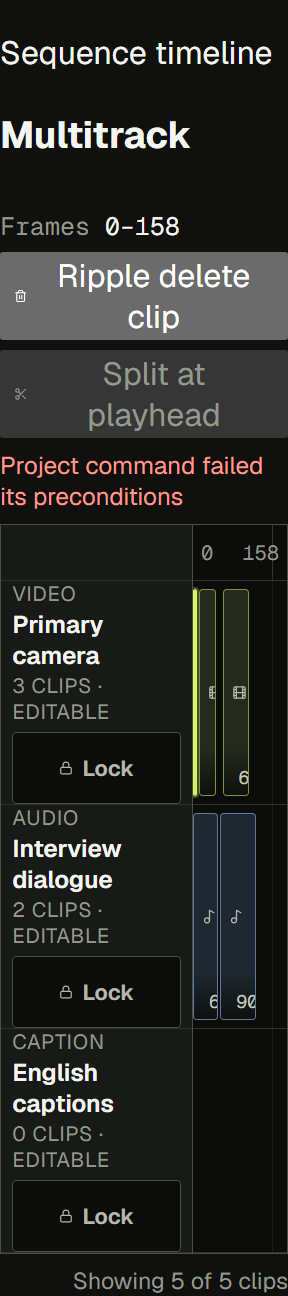
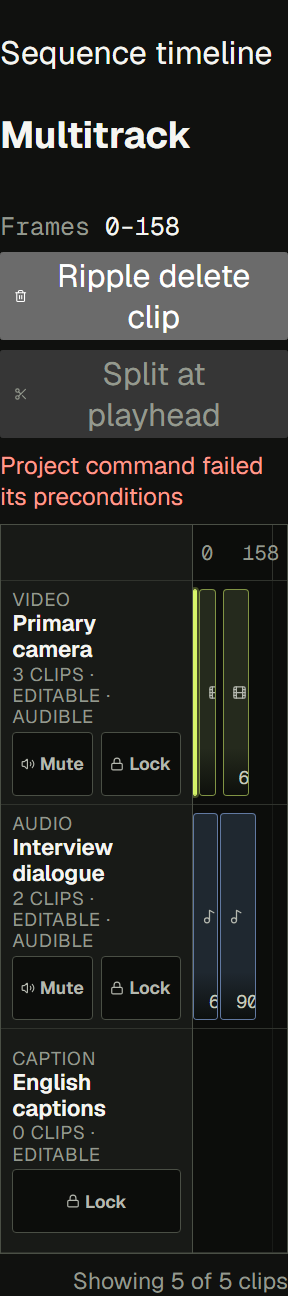
Add accessible multitrack mute controls

Changed region(s): [[0.0312, 0.4321, 0.5938, 0.9568]]

diff --git a/apps/desktop/src/video/MultitrackTimeline.tsx b/apps/desktop/src/video/MultitrackTimeline.tsx
@@ -9,7 +9,7 @@ import {
 } from "@supa-video/contracts";
 import { deriveActiveTimelineRange, projectVisibleTimeline } from "@supa-video/project";
 import type { PreparedVideoAsset } from "@supa-video/media";
-import { Film, Lock, LockOpen, Music2, Scissors, Trash2 } from "lucide-react";
+import { Film, Lock, LockOpen, Music2, Scissors, Trash2, Volume2, VolumeX } from "lucide-react";
 import {
   useCallback,
   useEffect,
@@ -39,6 +39,7 @@ interface MultitrackTimelineProps {
   readonly editError: Error | null;
   readonly onSelectClip: (clipId: string) => void;
   readonly onSetTrackLocked: (trackId: string, locked: boolean) => void;
+  readonly onSetTrackMuted: (trackId: string, muted: boolean) => void;
   readonly onSplitClip: (clipId: string, sourceFrame: number) => void;
   readonly onRippleDeleteClip: (clipId: string) => void;
   readonly onMoveClip: (clipId: string, timelineStartFrame: number) => void;
@@ -169,6 +170,7 @@ export function MultitrackTimeline({
   editError,
   onSelectClip,
   onSetTrackLocked,
+  onSetTrackMuted,
   onSplitClip,
   onRippleDeleteClip,
   onMoveClip,
@@ -477,28 +479,53 @@ export function MultitrackTimeline({
           {timeline.tracks.map((track) => (
             <div
               className={`multitrack-visible-label${track.locked ? " is-locked" : ""}`}
+              data-track-muted={track.canMute ? track.muted : undefined}
               key={track.trackId}
             >
               <span>{track.kind}</span>
               <strong>{track.name}</strong>
               <small>
                 {track.totalClipCount} clips · {track.locked ? "Locked" : "Editable"}
+                {track.canMute ? ` · ${track.muted ? "Muted" : "Audible"}` : ""}
               </small>
-              <button
-                type="button"
-                className="multitrack-lock-toggle"
-                aria-label={`${track.name} track lock`}
-                aria-pressed={track.locked}
-                disabled={editPending}
-                onClick={() => onSetTrackLocked(track.trackId, !track.locked)}
+              <div
+                className="multitrack-track-controls"
+                role="group"
+                aria-label={`${track.name} track controls`}
               >
-                {track.locked ? (
-                  <LockOpen size={14} aria-hidden="true" />
-                ) : (
-                  <Lock size={14} aria-hidden="true" />
-                )}
-                <span>{track.locked ? "Unlock" : "Lock"}</span>
-              </button>
+                {track.canMute ? (
+                  <button
+                    type="button"
+                    className="multitrack-mute-toggle"
+                    aria-label={`${track.name} track ${track.muted ? "unmute" : "mute"}`}
+                    aria-pressed={track.muted}
+                    disabled={editPending}
+                    onClick={() => onSetTrackMuted(track.trackId, !track.muted)}
+                  >
+                    {track.muted ? (
+                      <VolumeX size={14} aria-hidden="true" />
+                    ) : (
+                      <Volume2 size={14} aria-hidden="true" />
+                    )}
+                    <span>{track.muted ? "Unmute" : "Mute"}</span>
+                  </button>
+                ) : null}
+                <button
+                  type="button"
+                  className="multitrack-lock-toggle"
+                  aria-label={`${track.name} track lock`}
+                  aria-pressed={track.locked}
+                  disabled={editPending}
+                  onClick={() => onSetTrackLocked(track.trackId, !track.locked)}
+                >
+                  {track.locked ? (
+                    <LockOpen size={14} aria-hidden="true" />
+                  ) : (
+                    <Lock size={14} aria-hidden="true" />
+                  )}
+                  <span>{track.locked ? "Unlock" : "Lock"}</span>
+                </button>
+              </div>
             </div>
           ))}
         </div>
@@ -536,8 +563,9 @@ export function MultitrackTimeline({
                   data-track-id={track.trackId}
                   data-track-kind={track.kind}
                   data-track-locked={track.locked}
+                  data-track-muted={track.canMute ? track.muted : undefined}
                   key={track.trackId}
-                  aria-label={`${track.name}, ${track.kind} track, ${track.totalClipCount} clips, ${track.locked ? "locked" : "editable"}`}
+                  aria-label={`${track.name}, ${track.kind} track, ${track.totalClipCount} clips, ${track.locked ? "locked" : "editable"}${track.canMute ? `, ${track.muted ? "muted" : "audible"}` : ""}`}
                 >
                   {track.clips.length === 0 ? null : (
                     <ol className="multitrack-clip-list" aria-label={`${track.name} clips`}>

diff --git a/apps/desktop/src/video/MultitrackTimeline.test.tsx b/apps/desktop/src/video/MultitrackTimeline.test.tsx
@@ -179,6 +179,7 @@ function timelineProps(overrides: Partial<ComponentProps<typeof MultitrackTimeli
     editError: null,
     onSelectClip: vi.fn(),
     onSetTrackLocked: vi.fn(),
+    onSetTrackMuted: vi.fn(),
     onSplitClip: vi.fn(),
     onRippleDeleteClip: vi.fn(),
     onMoveClip: vi.fn(),
@@ -317,6 +318,84 @@ describe("MultitrackTimeline", () => {
     expect((rippleDelete as HTMLButtonElement).disabled).toBe(true);
     fireEvent.keyDown(firstClip, { key: "Delete", code: "Delete", shiftKey: true });
     expect(onRippleDeleteClip).toHaveBeenCalledTimes(3);
+  });
+
+  it("exposes mute toggles only for AV tracks without changing clip selection", () => {
+    const projection = projectionFixture({
+      name: "Mute interaction timeline",
+      videoClipCount: 1,
+      audioClipCount: 1,
+    });
+    const videoTrack = projection.state.sequences[0]!.tracks[0]!;
+    if (videoTrack.kind !== "video") throw new Error("Expected a video track");
+    videoTrack.locked = true;
+    videoTrack.muted = true;
+    const selectedClipId = id(100_000);
+    const onSelectClip = vi.fn();
+    const onSetTrackMuted = vi.fn();
+
+    const rendered = render(
+      <MultitrackTimeline
+        {...timelineProps({ projection, selectedClipId, onSelectClip, onSetTrackMuted })}
+      />,
+    );
+
+    const videoMute = screen.getByRole("button", { name: "Camera track unmute" });
+    const audioMute = screen.getByRole("button", { name: "Nested audio track mute" });
+    const selectedClip = screen.getByRole("button", {
+      name: /camera-a\.mp4, frames 0 through 2.*locked track/,
+    });
+
+    expect(videoMute.getAttribute("aria-pressed")).toBe("true");
+    expect(videoMute.textContent).toContain("Unmute");
+    expect((videoMute as HTMLButtonElement).disabled).toBe(false);
+    expect(audioMute.getAttribute("aria-pressed")).toBe("false");
+    expect(audioMute.textContent).toContain("Mute");
+    expect(screen.queryByRole("button", { name: /Captions track (?:unmute|mute)/ })).toBeNull();
+    expect(
+      screen.getByRole("listitem", { name: /Camera, video track.*locked, muted/ }),
+    ).toBeTruthy();
+    expect(
+      screen.getByRole("listitem", { name: /Nested audio, audio track.*editable, audible/ }),
+    ).toBeTruthy();
+    expect(
+      rendered.container
+        .querySelector(`[data-track-id='${id(10)}']`)
+        ?.getAttribute("data-track-muted"),
+    ).toBe("true");
+    expect(
+      rendered.container
+        .querySelector(`[data-track-id='${id(11)}']`)
+        ?.getAttribute("data-track-muted"),
+    ).toBe("false");
+    expect(
+      rendered.container
+        .querySelector(`[data-track-id='${id(12)}']`)
+        ?.hasAttribute("data-track-muted"),
+    ).toBe(false);
+
+    fireEvent.click(videoMute);
+    fireEvent.click(audioMute);
+
+    expect(onSetTrackMuted).toHaveBeenNthCalledWith(1, id(10), false);
+    expect(onSetTrackMuted).toHaveBeenNthCalledWith(2, id(11), true);
+    expect(selectedClip.getAttribute("aria-pressed")).toBe("true");
+    expect(onSelectClip).not.toHaveBeenCalled();
+  });
+
+  it("disables mute toggles only while a timeline edit is pending", () => {
+    const props = timelineProps({ editError: new Error("Previous edit failed") });
+    const rendered = render(<MultitrackTimeline {...props} />);
+    const muteToggles = screen.getAllByRole("button", { name: /track mute$/ });
+
+    expect(muteToggles).toHaveLength(2);
+    expect(muteToggles.every((toggle) => !(toggle as HTMLButtonElement).disabled)).toBe(true);
+
+    rendered.rerender(<MultitrackTimeline {...props} editPending={true} />);
+    expect(muteToggles.every((toggle) => (toggle as HTMLButtonElement).disabled)).toBe(true);
+
+    rendered.rerender(<MultitrackTimeline {...props} editPending={false} />);
+    expect(muteToggles.every((toggle) => !(toggle as HTMLButtonElement).disabled)).toBe(true);
   });
 
   it("toggles semantic lock state while selection and other tracks stay interactive", () => {

diff --git a/apps/desktop/src/App.css b/apps/desktop/src/App.css
@@ -712,7 +712,7 @@ video {
   --timeline-track-height: 5.25rem;
   display: grid;
   min-width: 0;
-  grid-template-columns: clamp(8rem, 16vw, 11rem) minmax(0, 1fr);
+  grid-template-columns: clamp(11rem, 20vw, 14rem) minmax(0, 1fr);
   border: 1px solid var(--border-strong);
   background: var(--surface-deep);
 }
@@ -734,9 +734,9 @@ video {
   min-width: 0;
   grid-template-columns: minmax(0, 1fr) auto;
   grid-template-areas:
-    "kind lock"
-    "name lock"
-    "status lock";
+    "kind controls"
+    "name controls"
+    "status controls";
   align-content: center;
   column-gap: 0.5rem;
   padding: 0.5rem 0.625rem;
@@ -776,16 +776,23 @@ video {
   text-overflow: clip;
   white-space: normal;
 }
-.multitrack-lock-toggle {
-  grid-area: lock;
+.multitrack-track-controls {
+  grid-area: controls;
+  display: flex;
+  min-width: 0;
+  align-self: center;
+  flex-direction: column;
+  gap: 0.25rem;
+}
+.multitrack-lock-toggle,
+.multitrack-mute-toggle {
   display: inline-flex;
   min-width: 3.75rem;
-  min-height: 2.75rem;
-  align-self: center;
+  min-height: 2rem;
   align-items: center;
   justify-content: center;
   gap: 0.3rem;
-  padding: 0.35rem 0.45rem;
+  padding: 0.25rem 0.4rem;
   border: 1px solid var(--border-strong);
   border-radius: 4px;
   color: var(--muted);
@@ -794,20 +801,24 @@ video {
   background: var(--surface-deep);
   cursor: pointer;
 }
-.multitrack-lock-toggle:hover:not(:disabled) {
+.multitrack-lock-toggle:hover:not(:disabled),
+.multitrack-mute-toggle:hover:not(:disabled) {
   border-color: var(--accent);
   color: var(--text);
 }
-.multitrack-lock-toggle[aria-pressed="true"] {
+.multitrack-lock-toggle[aria-pressed="true"],
+.multitrack-mute-toggle[aria-pressed="true"] {
   border-color: var(--quiet);
   color: var(--text);
   background: var(--surface-soft);
 }
-.multitrack-lock-toggle:focus-visible {
+.multitrack-lock-toggle:focus-visible,
+.multitrack-mute-toggle:focus-visible {
   outline: 2px solid var(--accent);
   outline-offset: 2px;
 }
-.multitrack-lock-toggle:disabled {
+.multitrack-lock-toggle:disabled,
+.multitrack-mute-toggle:disabled {
   cursor: not-allowed;
   opacity: 0.5;
 }
@@ -2015,14 +2026,36 @@ video {
       "kind"
       "name"
       "status"
-      "lock";
+      "controls";
     padding: 0.35rem;
   }
-  .multitrack-lock-toggle {
+  .multitrack-visible-label > span,
+  .multitrack-visible-label > small {
+    font-size: 0.58rem;
+    line-height: 1.15;
+  }
+  .multitrack-visible-label strong {
+    margin-block: 1px;
+    font-size: 0.7rem;
+    line-height: 1.15;
+  }
+  .multitrack-track-controls {
+    display: grid;
+    width: 100%;
+    grid-template-columns: repeat(2, minmax(0, 1fr));
+    margin-block-start: 0.125rem;
+  }
+  .multitrack-track-controls > :only-child {
+    grid-column: 1 / -1;
+  }
+  .multitrack-lock-toggle,
+  .multitrack-mute-toggle {
     width: 100%;
     min-width: 0;
-    min-height: 2.25rem;
-    margin-block-start: 0.25rem;
+    min-height: 2rem;
+    gap: 0.15rem;
+    padding-inline: 0.2rem;
+    font-size: 0.55rem;
   }
   .multitrack-heading {
     align-items: stretch;
@@ -2114,6 +2147,7 @@ video {
   .multitrack-track-row,
   .multitrack-clip,
   .multitrack-lock-toggle,
+  .multitrack-mute-toggle,
   .multitrack-scroll-region:focus-visible {
     border-color: CanvasText;
     box-shadow: none;
@@ -2133,7 +2167,8 @@ video {
     box-shadow: none;
     forced-color-adjust: none;
   }
-  .multitrack-lock-toggle[aria-pressed="true"] {
+  .multitrack-lock-toggle[aria-pressed="true"],
+  .multitrack-mute-toggle[aria-pressed="true"] {
     color: HighlightText;
     background: Highlight;
     forced-color-adjust: none;

diff --git a/apps/desktop/browser-tests/multitrack-timeline.fixture.tsx b/apps/desktop/browser-tests/multitrack-timeline.fixture.tsx
@@ -132,6 +132,21 @@ function ControlledTimelineFixture() {
     }));
   };
 
+  const setTrackMuted = (trackId: string, muted: boolean) => {
+    setCurrentProjection((current) => ({
+      ...current,
+      state: {
+        ...current.state,
+        sequences: current.state.sequences.map((sequence) => ({
+          ...sequence,
+          tracks: sequence.tracks.map((track) =>
+            track.id === trackId && track.kind !== "caption" ? { ...track, muted } : track,
+          ),
+        })),
+      },
+    }));
+  };
+
   const updateClip = (clipId: string, update: (clip: ProjectClip) => ProjectClip) => {
     setCurrentProjection((current) => ({
       ...current,
@@ -308,6 +323,7 @@ function ControlledTimelineFixture() {
         editError={editError}
         onSelectClip={setSelectedClipId}
         onSetTrackLocked={setTrackLocked}
+        onSetTrackMuted={setTrackMuted}
         onSplitClip={splitClip}
         onRippleDeleteClip={rippleDeleteClip}
         onMoveClip={moveClip}

diff --git a/apps/desktop/src/video/VideoWorkspace.tsx b/apps/desktop/src/video/VideoWorkspace.tsx
@@ -430,6 +430,9 @@ export function VideoWorkspace({
               onSetTrackLocked={(trackId, locked) =>
                 void controller.setTimelineTrackLocked({ trackId, locked })
               }
+              onSetTrackMuted={(trackId, muted) =>
+                void controller.setTimelineTrackMuted({ trackId, muted })
+              }
               onSplitClip={(clipId, sourceFrame) =>
                 void controller.splitTimelineClip({ clipId, sourceFrame })
               }
